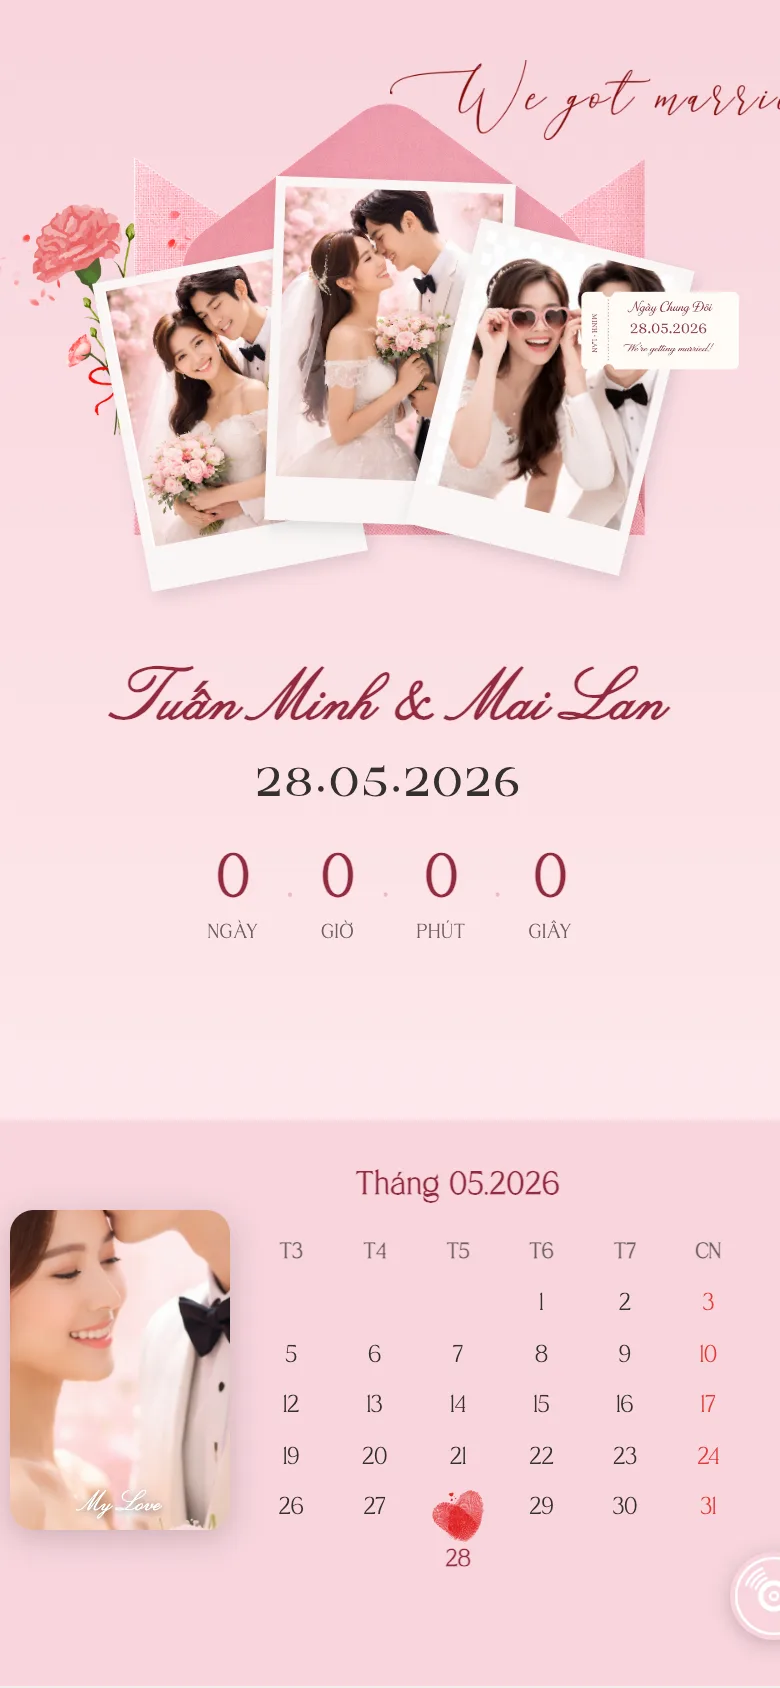
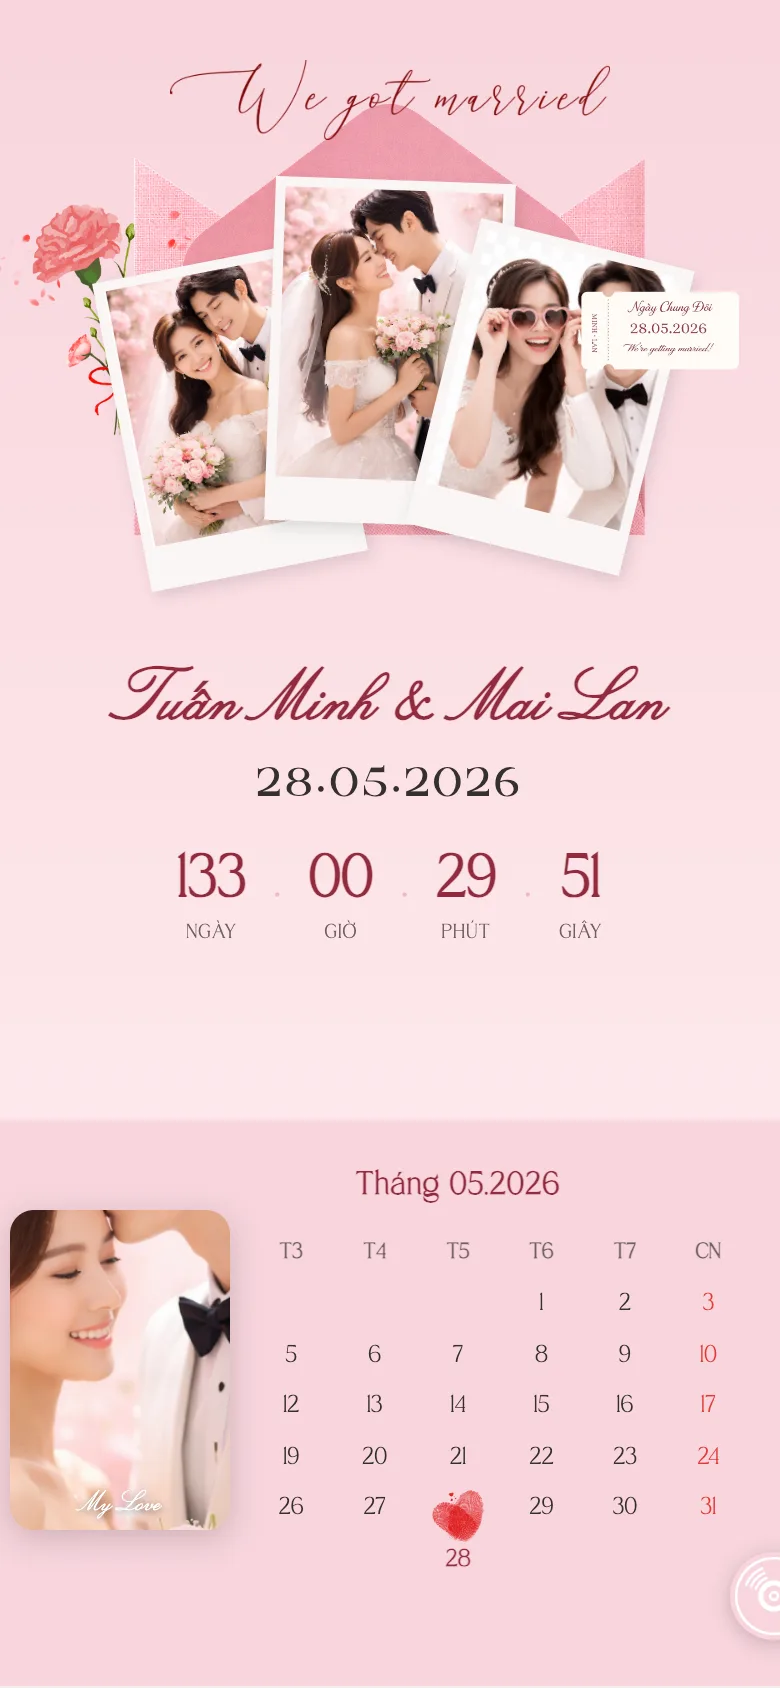
fix #235 chữ tràn mép (transform bị animation đè); shoot-mobile: đóng băng đồng hồ để countdown có số

diff --git a/scripts/shoot-mobile.js b/scripts/shoot-mobile.js
@@ -22,6 +22,7 @@ const PORT = Number(process.env.SHOT_PORT || (process.argv.includes("--port") ? 
 const VIEW = { width: 390, height: 844, deviceScaleFactor: 2 };
 const MAX_SECTIONS = 1;   // chỉ 1 màn dưới hero (tổng 3 ảnh: cover, open, sec-1)
 const QUALITY = 82;
+const FREEZE_DATE = Date.parse(process.env.SHOT_DATE || '2026-01-15T10:00:00+07:00'); // thời điểm giả khi chụp (đổi bằng SHOT_DATE=...)
 
 const args = process.argv.slice(2);
 const opt = (k) => { const i = args.indexOf(k); return i >= 0 ? args[i + 1] : null; };
@@ -191,6 +192,12 @@ async function shot(page, file) {
         fs.mkdirSync(t.outDir, { recursive: true });
         const page = await browser.newPage();
         await page.setViewport(VIEW);
+        // Đóng băng đồng hồ về FREEZE_DATE để countdown của thiệp demo (ngày đã qua) vẫn hiện số
+        await page.evaluateOnNewDocument((ts) => {
+            const RealDate = Date; const offset = ts - RealDate.now();
+            class FakeDate extends RealDate { constructor(...a) { a.length ? super(...a) : super(RealDate.now() + offset); } static now() { return RealDate.now() + offset; } }
+            window.Date = FakeDate;
+        }, FREEZE_DATE);
         await page.setUserAgent('Mozilla/5.0 (iPhone; CPU iPhone OS 17_0 like Mac OS X) AppleWebKit/605.1.15 (KHTML, like Gecko) Version/17.0 Mobile/15E148 Safari/604.1');
         const manifest = { id: t.id, name: t.name, demoUrl: t.demoUrl, shots: [], opened: null, error: null };
         try {

diff --git a/products/Invitation/Wedding/gen_235_cuoi-cinelove-pink-pastel/index.html b/products/Invitation/Wedding/gen_235_cuoi-cinelove-pink-pastel/index.html
@@ -163,8 +163,7 @@ a { text-decoration: none; color: inherit; }
 .hero-calligraphy {
   position: absolute;
   top: 30px;
-  left: 50%;
-  transform: translateX(-50%);
+  left: calc(50% - 110px); /* căn giữa bằng left — transform bị animation gentleFadeUp ghi đè */
   width: 220px;
   z-index: 8;
 }
